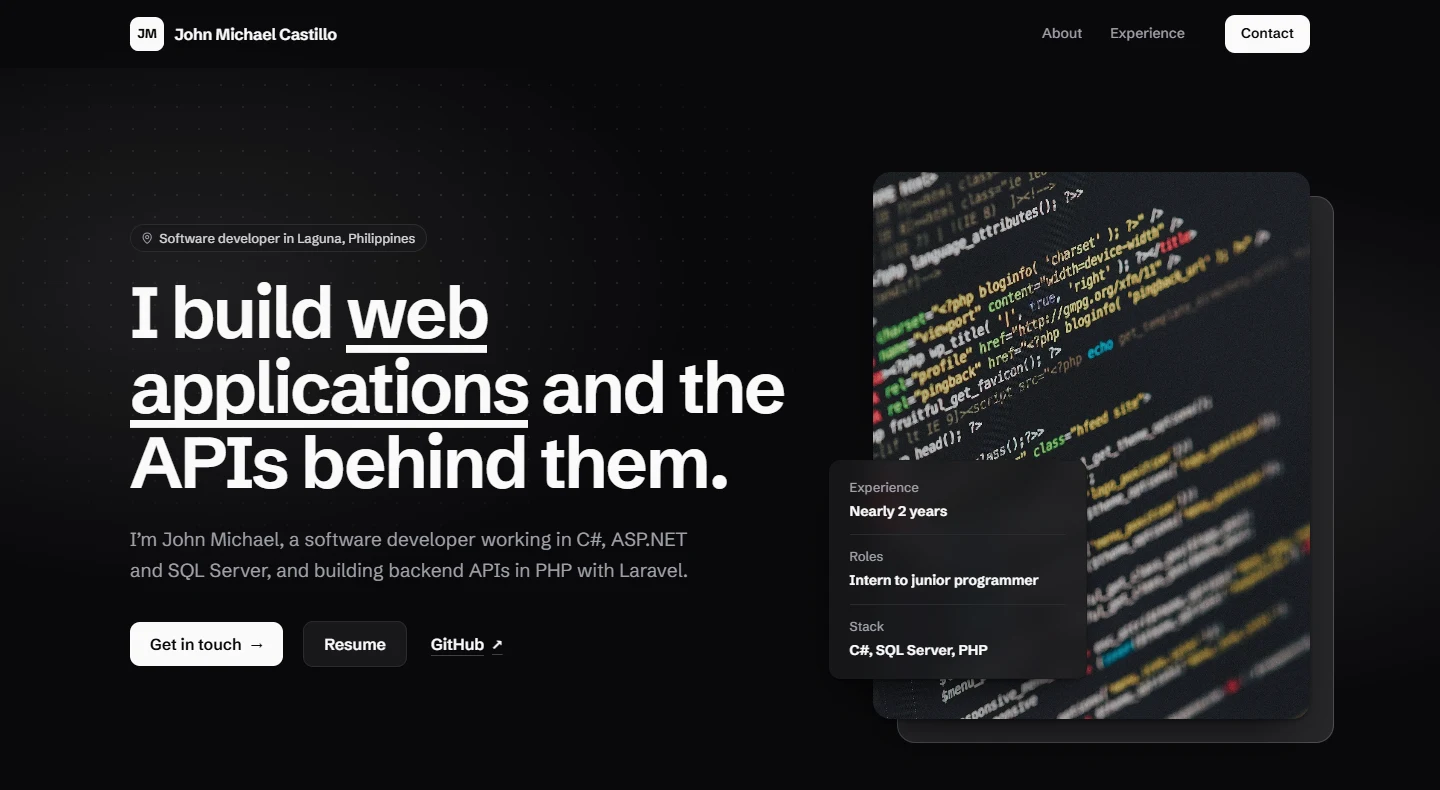
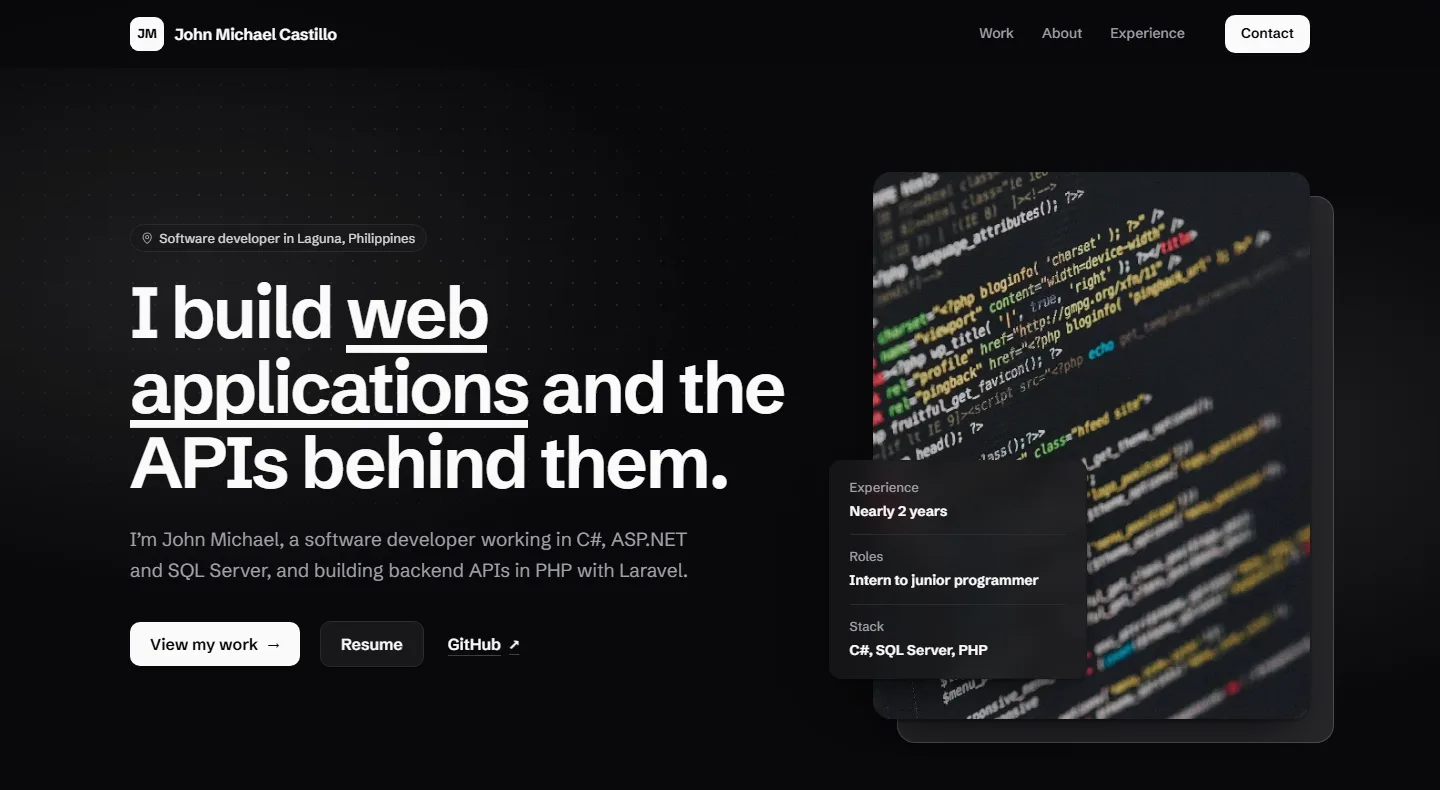
README: retake the hero screenshots and add the project page and About section

diff --git a/README.md b/README.md
@@ -7,8 +7,19 @@ block theme, edited locally and published as a fast static site.
 
 <picture>
   <source media="(prefers-color-scheme: dark)" srcset="docs/screenshot-dark.webp">
-  <img alt="The portfolio's home page: a large headline, a short introduction, contact and resume buttons, and a photo of code" src="docs/screenshot-light.webp">
+  <img alt="The portfolio's home page: a large headline, a short introduction, View my work, Resume and GitHub buttons, and a photo of code" src="docs/screenshot-light.webp">
 </picture>
+
+<p>
+  <picture>
+    <source media="(prefers-color-scheme: dark)" srcset="docs/screenshot-project-dark.webp">
+    <img width="49%" alt="A project page for Terra &amp; Thread Studio: title, summary, a screenshot of the site, and a Project details card with the stack and a View live site button" src="docs/screenshot-project-light.webp">
+  </picture>
+  <picture>
+    <source media="(prefers-color-scheme: dark)" srcset="docs/screenshot-about-dark.webp">
+    <img width="49%" alt="The About section: a short introduction beside a Toolkit card listing languages, frameworks, data and tools" src="docs/screenshot-about-light.webp">
+  </picture>
+</p>
 
 ## Features
 
@@ -17,8 +28,8 @@ block theme, edited locally and published as a fast static site.
 - **Automatic dark mode** that follows the visitor's system setting.
 - **Responsive** from small phones up, with a lightweight mobile menu (no heavy core
   Navigation block, so very little JavaScript).
-- **Projects** as their own content type, tagged with skills, with live-site and source-code
-  buttons that hide themselves when empty. The Work section only appears once a project is published.
+- **Projects** as their own content type, tagged with skills, with a live-site button that
+  hides itself when empty. The Work section only appears once a project is published.
 - **Contact form** with spam protection, sent through Web3Forms on the live site.
 - **Privacy-friendly analytics:** Vercel Web Analytics on the live site, with no cookies.
 - **Link previews and SEO:** Open Graph and Twitter card tags, canonical URLs and a sitemap.
